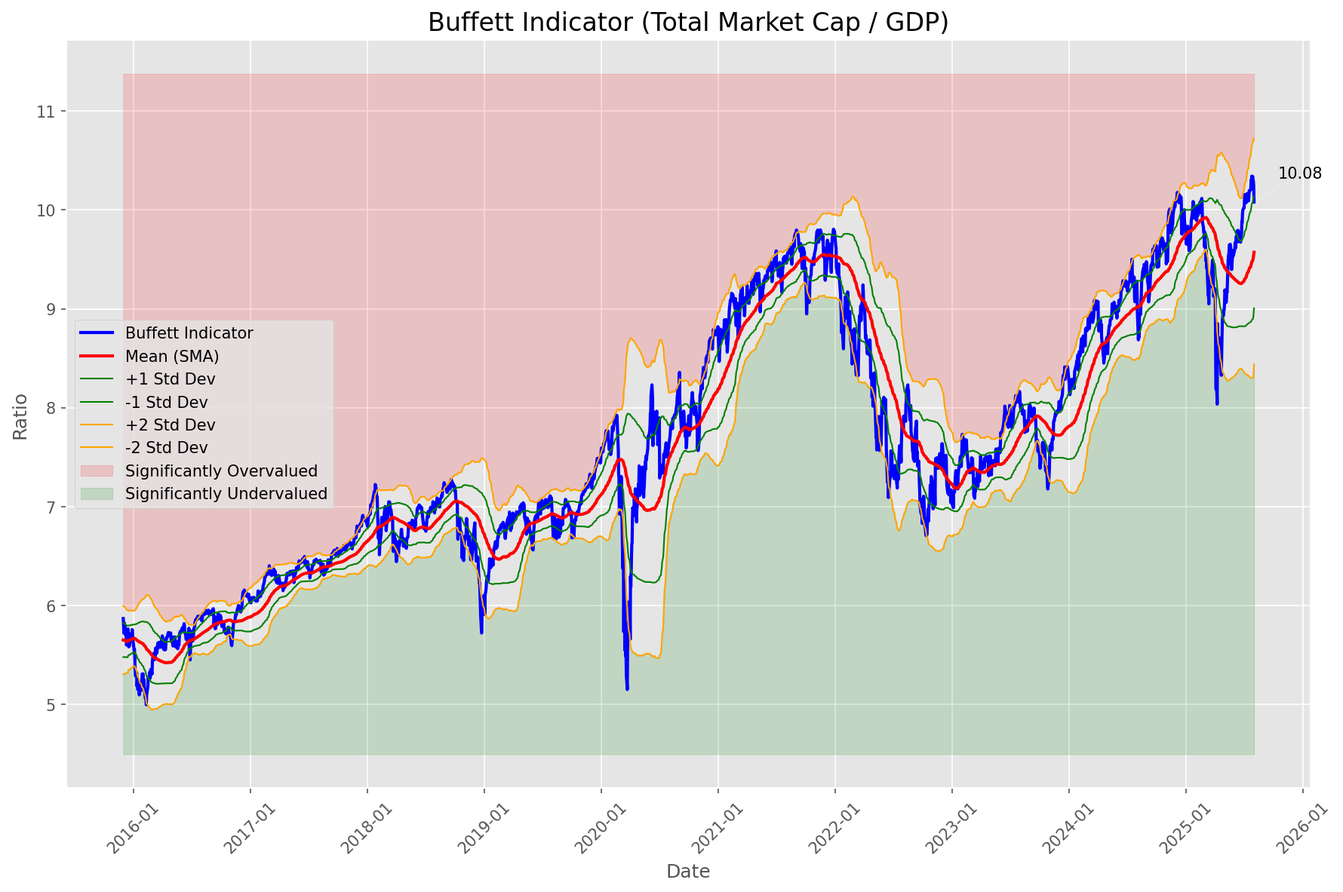
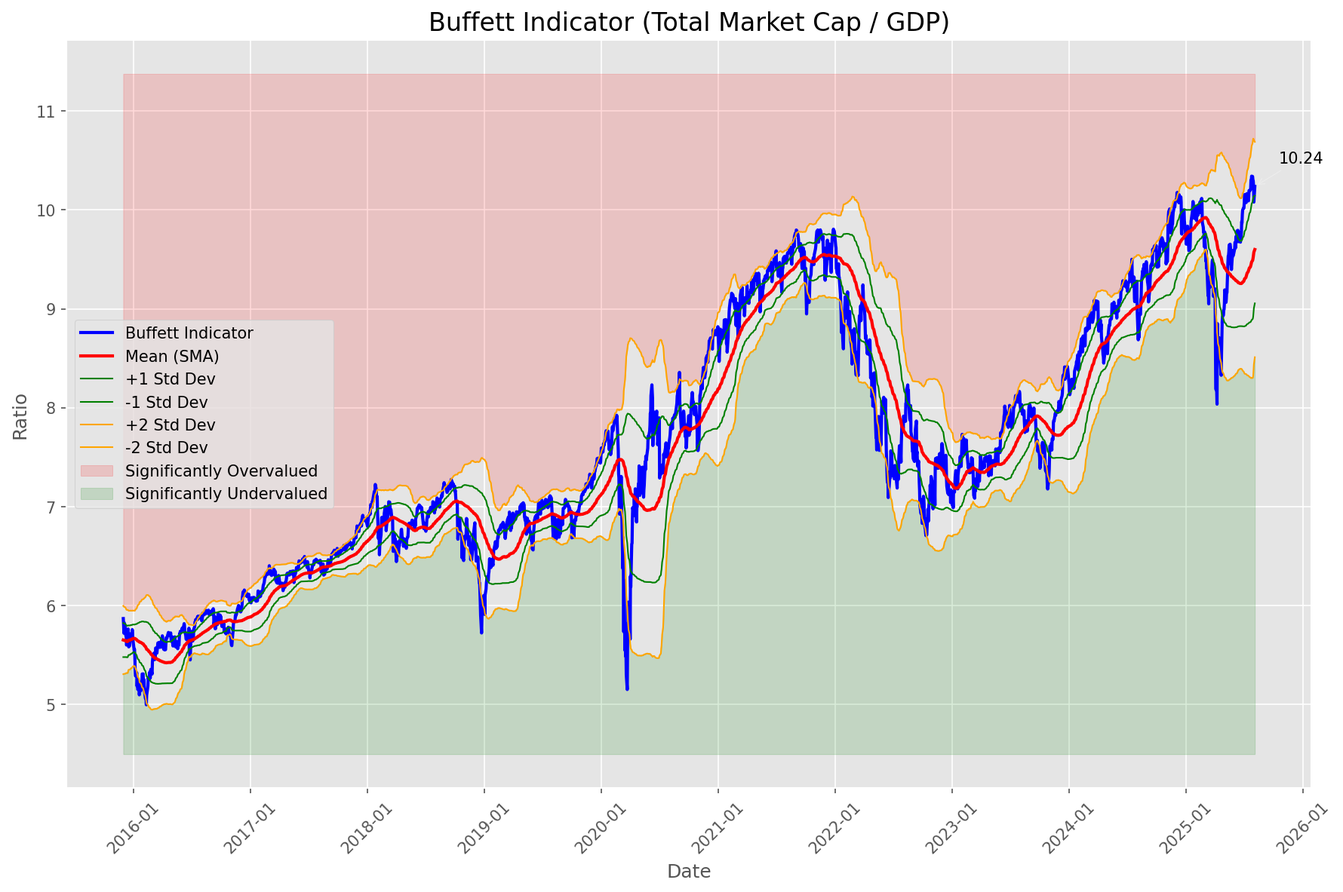
Add market report for 2025-08-05

diff --git a/oneil_relative_strength_report_2025-08-05.md b/oneil_relative_strength_report_2025-08-05.md
@@ -8,26 +8,26 @@
 
 | Metric | Value |
 |--------|-------|
-| **Market Valuation** | **Fair Valued** |
-| **Current Ratio** | 10.24 |
-| **Historical Mean** | 9.57 |
-| **Standard Deviation** | 0.57 |
-| **Z-Score (StdDev from Mean)** | 0.90 |
-| **Total Market Cap** | $310.53 trillion |
+| **Market Valuation** | **Overvalued** |
+| **Current Ratio** | 10.22 |
+| **Historical Mean** | 9.60 |
+| **Standard Deviation** | 0.54 |
+| **Z-Score (StdDev from Mean)** | 1.17 |
+| **Total Market Cap** | $310.07 trillion |
 | **GDP** | $30.33 trillion |
 
 ## **Market Insights**
 
-### **Market is Fairly Valued**
+### **Market is Overvalued**
 
-The market appears to be trading within a reasonable range of historical valuations. This suggests a balanced approach to equity investing is appropriate. Investors should:
+The market appears to be trading above historical average valuations. While not at extreme levels, this suggests more modest future returns may be expected. Investors should:
 
-- Focus on individual stock selection based on fundamentals and technicals
-- Maintain normal equity allocations aligned with long-term goals
-- Pay attention to sector rotation and relative strength
-- Watch for changes in market leadership
+- Focus on companies with reasonable valuations relative to their growth
+- Be more selective with new positions
+- Look for stocks showing relative strength within their sectors
+- Consider trimming positions in extremely overvalued names
 
-Fair valuation typically suggests normal market returns can be expected, with stock selection becoming increasingly important.
+Historically, periods of mild overvaluation can persist for extended periods, but returns tend to be below average.
 
 ### **Buffett Indicator Overview**
 
@@ -49,41 +49,41 @@ Based on William O'Neil's Relative Strength Methodology
 
 | ETF | Strength | RS Rating | Performance | Above Key MAs | Trend | Sector |
 |-----|----------|-----------|-------------|--------------|-------|--------|
-| [XLK](https://www.tradingview.com/chart/?symbol=XLK) | 91.5 | 83.0 | 21.09% | 10d ✓, 50d ✓, 200d ✓ | ↗ | Technology |
-| [URA](https://www.tradingview.com/chart/?symbol=URA) | 88.6 | 97.0 | 52.83% | 10d ✗, 50d ✓, 200d ✓ | ↗ | Uranium |
-| [ARKW](https://www.tradingview.com/chart/?symbol=ARKW) | 88.1 | 96.0 | 47.59% | 10d ✗, 50d ✓, 200d ✓ | ↗ | Next Generation Internet |
-| [ARKK](https://www.tradingview.com/chart/?symbol=ARKK) | 87.6 | 95.0 | 41.79% | 10d ✗, 50d ✓, 200d ✓ | ↗ | Innovation |
-| [ARKF](https://www.tradingview.com/chart/?symbol=ARKF) | 87.6 | 95.0 | 43.79% | 10d ✗, 50d ✓, 200d ✓ | ↗ | Fintech Innovation |
-| [BLOK](https://www.tradingview.com/chart/?symbol=BLOK) | 86.6 | 93.0 | 36.87% | 10d ✗, 50d ✓, 200d ✓ | ↗ | Blockchain & Cryptocurrency |
-| [XLC](https://www.tradingview.com/chart/?symbol=XLC) | 83.5 | 67.0 | 11.02% | 10d ✓, 50d ✓, 200d ✓ | ↗ | Communications |
-| [XLU](https://www.tradingview.com/chart/?symbol=XLU) | 82.0 | 64.0 | 9.49% | 10d ✓, 50d ✓, 200d ✓ | ↗ | Utilities |
-| [SLV](https://www.tradingview.com/chart/?symbol=SLV) | 78.6 | 77.0 | 16.69% | 10d ✗, 50d ✓, 200d ✓ | ↗ | Silver |
-| [AIQ](https://www.tradingview.com/chart/?symbol=AIQ) | 78.1 | 76.0 | 16.17% | 10d ✗, 50d ✓, 200d ✓ | ↗ | Artificial Intelligence & Technology |
-| [PAVE](https://www.tradingview.com/chart/?symbol=PAVE) | 76.6 | 73.0 | 14.47% | 10d ✗, 50d ✓, 200d ✓ | ↗ | Infrastructure |
-| [JETS](https://www.tradingview.com/chart/?symbol=JETS) | 75.6 | 71.0 | 13.03% | 10d ✗, 50d ✓, 200d ✓ | ↗ | Airlines |
-| [XLI](https://www.tradingview.com/chart/?symbol=XLI) | 75.1 | 70.0 | 12.29% | 10d ✗, 50d ✓, 200d ✓ | ↗ | Industrial |
-| [GLD](https://www.tradingview.com/chart/?symbol=GLD) | 74.0 | 48.0 | 4.34% | 10d ✓, 50d ✓, 200d ✓ | ↗ | Gold |
-| [IYZ](https://www.tradingview.com/chart/?symbol=IYZ) | 72.6 | 65.0 | 10.00% | 10d ✗, 50d ✓, 200d ✓ | ↗ | Telecommunications |
-| [XLY](https://www.tradingview.com/chart/?symbol=XLY) | 71.1 | 62.0 | 8.54% | 10d ✗, 50d ✓, 200d ✓ | ↗ | Consumer Discretionary |
-| [KWEB](https://www.tradingview.com/chart/?symbol=KWEB) | 65.1 | 50.0 | 4.94% | 10d ✗, 50d ✓, 200d ✓ | ↗ | Chinese Internet |
-| [SOXX](https://www.tradingview.com/chart/?symbol=SOXX) | 64.1 | 88.0 | 26.51% | 10d ✗, 50d ✓, 200d ✓ | ↘ | Semiconductors |
-| [XLF](https://www.tradingview.com/chart/?symbol=XLF) | 64.1 | 48.0 | 4.32% | 10d ✗, 50d ✓, 200d ✓ | ↗ | Financial |
-| [CIBR](https://www.tradingview.com/chart/?symbol=CIBR) | 59.7 | 59.0 | 7.65% | 10d ✗, 50d ✗, 200d ✓ | ↗ | Cybersecurity |
-| [IBB](https://www.tradingview.com/chart/?symbol=IBB) | 58.0 | 56.0 | 6.93% | 10d ✓, 50d ✓, 200d ✓ | ↘ | Biotechnology |
-| [ICLN](https://www.tradingview.com/chart/?symbol=ICLN) | 56.6 | 73.0 | 14.61% | 10d ✗, 50d ✓, 200d ✓ | ↘ | Clean Energy |
-| [ITB](https://www.tradingview.com/chart/?symbol=ITB) | 51.3 | 63.0 | 8.95% | 10d ✓, 50d ✓, 200d ✗ | ↘ | Home Construction |
-| [ARKG](https://www.tradingview.com/chart/?symbol=ARKG) | 48.1 | 56.0 | 6.57% | 10d ✗, 50d ✓, 200d ✓ | ↘ | Genomics |
-| [IYR](https://www.tradingview.com/chart/?symbol=IYR) | 37.6 | 35.0 | 0.79% | 10d ✗, 50d ✓, 200d ✓ | ↘ | Real Estate |
-| [DBC](https://www.tradingview.com/chart/?symbol=DBC) | 37.2 | 54.0 | 6.02% | 10d ✗, 50d ✗, 200d ✓ | ↘ | Commodities |
-| [TLT](https://www.tradingview.com/chart/?symbol=TLT) | 35.8 | 32.0 | 0.38% | 10d ✓, 50d ✓, 200d ✗ | ↘ | Long-term Treasuries |
-| [UUP](https://www.tradingview.com/chart/?symbol=UUP) | 35.3 | 31.0 | 0.11% | 10d ✓, 50d ✓, 200d ✗ | ↘ | U.S. Dollar |
+| [XLK](https://www.tradingview.com/chart/?symbol=XLK) | 91.5 | 83.0 | 21.65% | 10d ✓, 50d ✓, 200d ✓ | ↗ | Technology |
+| [URA](https://www.tradingview.com/chart/?symbol=URA) | 88.6 | 97.0 | 56.69% | 10d ✗, 50d ✓, 200d ✓ | ↗ | Uranium |
+| [ARKK](https://www.tradingview.com/chart/?symbol=ARKK) | 87.6 | 95.0 | 44.58% | 10d ✗, 50d ✓, 200d ✓ | ↗ | Innovation |
+| [ARKF](https://www.tradingview.com/chart/?symbol=ARKF) | 87.6 | 95.0 | 44.05% | 10d ✗, 50d ✓, 200d ✓ | ↗ | Fintech Innovation |
+| [ARKW](https://www.tradingview.com/chart/?symbol=ARKW) | 87.6 | 95.0 | 47.59% | 10d ✗, 50d ✓, 200d ✓ | ↗ | Next Generation Internet |
+| [BLOK](https://www.tradingview.com/chart/?symbol=BLOK) | 86.6 | 93.0 | 37.30% | 10d ✗, 50d ✓, 200d ✓ | ↗ | Blockchain & Cryptocurrency |
+| [XLC](https://www.tradingview.com/chart/?symbol=XLC) | 83.0 | 66.0 | 10.86% | 10d ✓, 50d ✓, 200d ✓ | ↗ | Communications |
+| [XLU](https://www.tradingview.com/chart/?symbol=XLU) | 81.5 | 63.0 | 9.40% | 10d ✓, 50d ✓, 200d ✓ | ↗ | Utilities |
+| [AIQ](https://www.tradingview.com/chart/?symbol=AIQ) | 78.1 | 76.0 | 16.67% | 10d ✗, 50d ✓, 200d ✓ | ↗ | Artificial Intelligence & Technology |
+| [SLV](https://www.tradingview.com/chart/?symbol=SLV) | 77.6 | 75.0 | 15.91% | 10d ✗, 50d ✓, 200d ✓ | ↗ | Silver |
+| [PAVE](https://www.tradingview.com/chart/?symbol=PAVE) | 76.6 | 73.0 | 14.77% | 10d ✗, 50d ✓, 200d ✓ | ↗ | Infrastructure |
+| [XLI](https://www.tradingview.com/chart/?symbol=XLI) | 74.6 | 69.0 | 12.02% | 10d ✗, 50d ✓, 200d ✓ | ↗ | Industrial |
+| [XLY](https://www.tradingview.com/chart/?symbol=XLY) | 72.1 | 64.0 | 9.97% | 10d ✗, 50d ✓, 200d ✓ | ↗ | Consumer Discretionary |
+| [IYZ](https://www.tradingview.com/chart/?symbol=IYZ) | 72.1 | 64.0 | 10.00% | 10d ✗, 50d ✓, 200d ✓ | ↗ | Telecommunications |
+| [GLD](https://www.tradingview.com/chart/?symbol=GLD) | 68.0 | 36.0 | 1.25% | 10d ✓, 50d ✓, 200d ✓ | ↗ | Gold |
+| [KWEB](https://www.tradingview.com/chart/?symbol=KWEB) | 66.6 | 53.0 | 5.88% | 10d ✗, 50d ✓, 200d ✓ | ↗ | Chinese Internet |
+| [SOXX](https://www.tradingview.com/chart/?symbol=SOXX) | 64.1 | 88.0 | 27.39% | 10d ✗, 50d ✓, 200d ✓ | ↘ | Semiconductors |
+| [CIBR](https://www.tradingview.com/chart/?symbol=CIBR) | 58.2 | 56.0 | 7.12% | 10d ✗, 50d ✗, 200d ✓ | ↗ | Cybersecurity |
+| [ICLN](https://www.tradingview.com/chart/?symbol=ICLN) | 57.6 | 75.0 | 15.52% | 10d ✗, 50d ✓, 200d ✓ | ↘ | Clean Energy |
+| [XLF](https://www.tradingview.com/chart/?symbol=XLF) | 54.2 | 48.0 | 4.43% | 10d ✗, 50d ✗, 200d ✓ | ↗ | Financial |
+| [JETS](https://www.tradingview.com/chart/?symbol=JETS) | 53.0 | 66.0 | 10.79% | 10d ✗, 50d ✗, 200d ✗ | ↗ | Airlines |
+| [ITB](https://www.tradingview.com/chart/?symbol=ITB) | 52.3 | 65.0 | 10.13% | 10d ✓, 50d ✓, 200d ✗ | ↘ | Home Construction |
+| [IBB](https://www.tradingview.com/chart/?symbol=IBB) | 46.6 | 53.0 | 6.05% | 10d ✗, 50d ✓, 200d ✓ | ↘ | Biotechnology |
+| [TLT](https://www.tradingview.com/chart/?symbol=TLT) | 36.8 | 34.0 | 0.85% | 10d ✓, 50d ✓, 200d ✗ | ↘ | Long-term Treasuries |
+| [DBC](https://www.tradingview.com/chart/?symbol=DBC) | 36.7 | 53.0 | 6.02% | 10d ✗, 50d ✗, 200d ✓ | ↘ | Commodities |
+| [UUP](https://www.tradingview.com/chart/?symbol=UUP) | 35.8 | 32.0 | 0.45% | 10d ✓, 50d ✓, 200d ✗ | ↘ | U.S. Dollar |
+| [ARKG](https://www.tradingview.com/chart/?symbol=ARKG) | 31.0 | 62.0 | 9.08% | 10d ✗, 50d ✗, 200d ✗ | ↘ | Genomics |
 | [DBA](https://www.tradingview.com/chart/?symbol=DBA) | 30.5 | 21.0 | -4.03% | 10d ✗, 50d ✗, 200d ✗ | ↗ | Agriculture |
-| [IYT](https://www.tradingview.com/chart/?symbol=IYT) | 29.5 | 59.0 | 7.63% | 10d ✗, 50d ✗, 200d ✗ | ↘ | Transportation |
-| [XLE](https://www.tradingview.com/chart/?symbol=XLE) | 24.0 | 48.0 | 4.17% | 10d ✗, 50d ✗, 200d ✗ | ↘ | Energy |
-| [XLB](https://www.tradingview.com/chart/?symbol=XLB) | 23.0 | 46.0 | 3.46% | 10d ✗, 50d ✗, 200d ✗ | ↘ | Materials |
-| [BIL](https://www.tradingview.com/chart/?symbol=BIL) | 15.0 | 30.0 | 0.02% | 10d ✗, 50d ✗, 200d ✗ | ↘ | Short-term Treasuries |
-| [XLP](https://www.tradingview.com/chart/?symbol=XLP) | 13.5 | 27.0 | -1.24% | 10d ✗, 50d ✗, 200d ✗ | ↘ | Consumer Staples |
-| [XLV](https://www.tradingview.com/chart/?symbol=XLV) | 10.5 | 21.0 | -3.98% | 10d ✗, 50d ✗, 200d ✗ | ↘ | Healthcare |
+| [IYT](https://www.tradingview.com/chart/?symbol=IYT) | 29.0 | 58.0 | 7.63% | 10d ✗, 50d ✗, 200d ✗ | ↘ | Transportation |
+| [IYR](https://www.tradingview.com/chart/?symbol=IYR) | 26.9 | 34.0 | 0.77% | 10d ✗, 50d ✓, 200d ✗ | ↘ | Real Estate |
+| [XLE](https://www.tradingview.com/chart/?symbol=XLE) | 25.0 | 50.0 | 5.06% | 10d ✗, 50d ✗, 200d ✗ | ↘ | Energy |
+| [XLB](https://www.tradingview.com/chart/?symbol=XLB) | 23.5 | 47.0 | 4.26% | 10d ✗, 50d ✗, 200d ✗ | ↘ | Materials |
+| [BIL](https://www.tradingview.com/chart/?symbol=BIL) | 15.0 | 30.0 | 0.03% | 10d ✗, 50d ✗, 200d ✗ | ↘ | Short-term Treasuries |
+| [XLP](https://www.tradingview.com/chart/?symbol=XLP) | 13.0 | 26.0 | -1.37% | 10d ✗, 50d ✗, 200d ✗ | ↘ | Consumer Staples |
+| [XLV](https://www.tradingview.com/chart/?symbol=XLV) | 10.0 | 20.0 | -4.37% | 10d ✗, 50d ✗, 200d ✗ | ↘ | Healthcare |
 
 ### **Sector ETF Performance Interpretation**
 
@@ -98,135 +98,143 @@ This table shows the relative strength metrics for different market sectors base
 
 ### **Current Sector Leadership**
 
-The current market leadership is coming from the following sectors: **Technology, Uranium, Next Generation Internet**.
+The current market leadership is coming from the following sectors: **Technology, Uranium, Innovation**.
 
-The **Technology** sector (represented by **XLK**) is showing particularly strong relative strength with an RS rating of 83.0 and performance of 21.09% vs. the S&P 500. This sector is trading above its 10-day, 50-day, 200-day moving average(s). Investors should consider focusing on high RS stocks within these leading sectors for potential outperformance.
+The **Technology** sector (represented by **XLK**) is showing particularly strong relative strength with an RS rating of 83.0 and performance of 21.65% vs. the S&P 500. This sector is trading above its 10-day, 50-day, 200-day moving average(s). Investors should consider focusing on high RS stocks within these leading sectors for potential outperformance.
 
 ---
 
 ## **Buy Recommendations**
 
-The following 64 stocks show exceptional relative strength:
+The following 61 stocks show exceptional relative strength:
 
 | RS Rating | Buy Score | Current Price | Chart | Name | Ticker |
 |-----------|-----------|---------------|-------|------|--------|
-| 100 | 100 | $156.99 | [Chart](https://www.tradingview.com/chart/?symbol=SEZL) | Sezzle Inc. Common Stock | SEZL |
-| 100 | 100 | $201.45 | [Chart](https://www.tradingview.com/chart/?symbol=CLS) | Celestica, Inc. | CLS |
-| 100 | 100 | $106.37 | [Chart](https://www.tradingview.com/chart/?symbol=HOOD) | Robinhood Markets, Inc. Class A Common Stock | HOOD |
-| 100 | 100 | $65.42 | [Chart](https://www.tradingview.com/chart/?symbol=MP) | MP Materials Corp. | MP |
+| 100 | 100 | $201.16 | [Chart](https://www.tradingview.com/chart/?symbol=CLS) | Celestica, Inc. | CLS |
+| 100 | 100 | $106.93 | [Chart](https://www.tradingview.com/chart/?symbol=HOOD) | Robinhood Markets, Inc. Class A Common Stock | HOOD |
 | 100 | 100 | $245.51 | [Chart](https://www.tradingview.com/chart/?symbol=DAVE) | Dave Inc. Class A Common Stock | DAVE |
-| 99 | 100 | $25.07 | [Chart](https://www.tradingview.com/chart/?symbol=EYE) | National Vision Holdings, Inc. Common Stock | EYE |
-| 99 | 100 | $390.68 | [Chart](https://www.tradingview.com/chart/?symbol=TLN) | Talen Energy Corporation Common Stock | TLN |
+| 100 | 100 | $157.49 | [Chart](https://www.tradingview.com/chart/?symbol=SEZL) | Sezzle Inc. Common Stock | SEZL |
+| 100 | 100 | $114.25 | [Chart](https://www.tradingview.com/chart/?symbol=CRDO) | Credo Technology Group Holding Ltd Ordinary Shares | CRDO |
+| 100 | 100 | $67.83 | [Chart](https://www.tradingview.com/chart/?symbol=MP) | MP Materials Corp. | MP |
+| 99 | 100 | $388.14 | [Chart](https://www.tradingview.com/chart/?symbol=TLN) | Talen Energy Corporation Common Stock | TLN |
+| 99 | 100 | $130.16 | [Chart](https://www.tradingview.com/chart/?symbol=RBLX) | Roblox Corporation | RBLX |
+| 99 | 100 | $24.91 | [Chart](https://www.tradingview.com/chart/?symbol=EYE) | National Vision Holdings, Inc. Common Stock | EYE |
 | 99 | 100 | $76.98 | [Chart](https://www.tradingview.com/chart/?symbol=LIF) | Life360, Inc. Common Stock | LIF |
-| 99 | 100 | $130.70 | [Chart](https://www.tradingview.com/chart/?symbol=RBLX) | Roblox Corporation | RBLX |
-| 98 | 100 | $208.80 | [Chart](https://www.tradingview.com/chart/?symbol=NET) | Cloudflare, Inc. Class A common stock, par value $0.001 per share | NET |
-| 98 | 100 | $59.50 | [Chart](https://www.tradingview.com/chart/?symbol=KTOS) | Kratos Defense & Security Solutions, Inc. | KTOS |
-| 98 | 100 | $662.77 | [Chart](https://www.tradingview.com/chart/?symbol=GEV) | GE Vernova Inc. | GEV |
-| 97 | 100 | $111.89 | [Chart](https://www.tradingview.com/chart/?symbol=TPR) | Tapestry, Inc. Common Stock | TPR |
-| 97 | 100 | $30.74 | [Chart](https://www.tradingview.com/chart/?symbol=ACMR) | ACM Research, Inc. Class A Common Stock | ACMR |
-| 97 | 100 | $63.35 | [Chart](https://www.tradingview.com/chart/?symbol=HIMS) | Hims & Hers Health, Inc. | HIMS |
-| 96 | 100 | $173.91 | [Chart](https://www.tradingview.com/chart/?symbol=NRG) | NRG Energy, Inc. | NRG |
-| 96 | 100 | $179.14 | [Chart](https://www.tradingview.com/chart/?symbol=COOP) | Mr. Cooper Group Inc. Common Stock | COOP |
-| 96 | 100 | $38.71 | [Chart](https://www.tradingview.com/chart/?symbol=AS) | Amer Sports, Inc. | AS |
+| 98 | 100 | $60.84 | [Chart](https://www.tradingview.com/chart/?symbol=KTOS) | Kratos Defense & Security Solutions, Inc. | KTOS |
+| 98 | 100 | $212.30 | [Chart](https://www.tradingview.com/chart/?symbol=NET) | Cloudflare, Inc. Class A common stock, par value $0.001 per share | NET |
+| 98 | 100 | $658.47 | [Chart](https://www.tradingview.com/chart/?symbol=GEV) | GE Vernova Inc. | GEV |
+| 98 | 100 | $37.84 | [Chart](https://www.tradingview.com/chart/?symbol=NNE) | Nano Nuclear Energy Inc. Common Stock | NNE |
+| 97 | 100 | $63.84 | [Chart](https://www.tradingview.com/chart/?symbol=HIMS) | Hims & Hers Health, Inc. | HIMS |
+| 97 | 100 | $157.25 | [Chart](https://www.tradingview.com/chart/?symbol=FUTU) | Futu Holdings Limited American Depositary Shares | FUTU |
+| 97 | 100 | $182.70 | [Chart](https://www.tradingview.com/chart/?symbol=COOP) | Mr. Cooper Group Inc. Common Stock | COOP |
+| 96 | 100 | $172.54 | [Chart](https://www.tradingview.com/chart/?symbol=NRG) | NRG Energy, Inc. | NRG |
+| 96 | 100 | $110.87 | [Chart](https://www.tradingview.com/chart/?symbol=TPR) | Tapestry, Inc. Common Stock | TPR |
 | 96 | 100 | $35.87 | [Chart](https://www.tradingview.com/chart/?symbol=ATRO) | Astronics Corp | ATRO |
 | 95 | 100 | $116.69 | [Chart](https://www.tradingview.com/chart/?symbol=SANM) | Sanmina  Corp | SANM |
 | 95 | 100 | $105.47 | [Chart](https://www.tradingview.com/chart/?symbol=VRNA) | Verona Pharma plc | VRNA |
-| 95 | 100 | $64.90 | [Chart](https://www.tradingview.com/chart/?symbol=IBKR) | Interactive Brokers Group, Inc. Class A Common Stock | IBKR |
-| 94 | 100 | $90.24 | [Chart](https://www.tradingview.com/chart/?symbol=RYTM) | Rhythm Pharmaceuticals, Inc. Common Stock | RYTM |
 | 94 | 100 | $49.55 | [Chart](https://www.tradingview.com/chart/?symbol=REVG) | REV Group, Inc. | REVG |
-| 94 | 100 | $360.66 | [Chart](https://www.tradingview.com/chart/?symbol=CVNA) | Carvana Co. | CVNA |
-| 94 | 100 | $58.86 | [Chart](https://www.tradingview.com/chart/?symbol=VIK) | Viking Holdings Ltd | VIK |
-| 93 | 100 | $49.30 | [Chart](https://www.tradingview.com/chart/?symbol=TOST) | Toast, Inc. | TOST |
-| 92 | 100 | $259.87 | [Chart](https://www.tradingview.com/chart/?symbol=WWD) | Woodward, Inc. | WWD |
+| 94 | 100 | $21.14 | [Chart](https://www.tradingview.com/chart/?symbol=MAG) | MAG Silver Corp. | MAG |
+| 94 | 100 | $872.85 | [Chart](https://www.tradingview.com/chart/?symbol=AXON) | Axon Enterprise, Inc. Common Stock | AXON |
+| 94 | 100 | $174.17 | [Chart](https://www.tradingview.com/chart/?symbol=PLTR) | Palantir Technologies Inc. Class A Common Stock | PLTR |
+| 94 | 100 | $366.53 | [Chart](https://www.tradingview.com/chart/?symbol=CVNA) | Carvana Co. | CVNA |
 | 92 | 100 | $156.85 | [Chart](https://www.tradingview.com/chart/?symbol=VSEC) | VSE Corp | VSEC |
-| 92 | 100 | $108.63 | [Chart](https://www.tradingview.com/chart/?symbol=APH) | Amphenol Corporation | APH |
+| 92 | 100 | $108.99 | [Chart](https://www.tradingview.com/chart/?symbol=APH) | Amphenol Corporation | APH |
+| 92 | 100 | $259.87 | [Chart](https://www.tradingview.com/chart/?symbol=WWD) | Woodward, Inc. | WWD |
 | 92 | 100 | $42.98 | [Chart](https://www.tradingview.com/chart/?symbol=LTM) | LATAM Airlines Group S.A. American Depositary Shares (each representing two thousand (2,000) shares of Common Stock) | LTM |
-| 92 | 100 | $92.86 | [Chart](https://www.tradingview.com/chart/?symbol=EBAY) | eBay Inc | EBAY |
-| 92 | 100 | $276.23 | [Chart](https://www.tradingview.com/chart/?symbol=GE) | GE Aerospace | GE |
-| 91 | 100 | $53.17 | [Chart](https://www.tradingview.com/chart/?symbol=AU) | AngloGold Ashanti plc | AU |
-| 90 | 100 | $160.66 | [Chart](https://www.tradingview.com/chart/?symbol=PLTR) | Palantir Technologies Inc. Class A Common Stock | PLTR |
-| 89 | 100 | $55.55 | [Chart](https://www.tradingview.com/chart/?symbol=BTI) | British American Tobacco p.l.c. American Depositary Shares, American Depositary Shares, each representing one Ordinary Share | BTI |
+| 91 | 100 | $397.50 | [Chart](https://www.tradingview.com/chart/?symbol=APP) | Applovin Corporation Class A Common Stock | APP |
+| 90 | 100 | $54.88 | [Chart](https://www.tradingview.com/chart/?symbol=AU) | AngloGold Ashanti plc | AU |
+| 90 | 100 | $273.94 | [Chart](https://www.tradingview.com/chart/?symbol=GE) | GE Aerospace | GE |
+| 90 | 100 | $91.88 | [Chart](https://www.tradingview.com/chart/?symbol=EBAY) | eBay Inc | EBAY |
 | 89 | 100 | $81.79 | [Chart](https://www.tradingview.com/chart/?symbol=TPB) | Turning Point Brands, Inc. | TPB |
-| 87 | 100 | $92.52 | [Chart](https://www.tradingview.com/chart/?symbol=RBRK) | Rubrik, Inc. | RBRK |
-| 87 | 100 | $33.68 | [Chart](https://www.tradingview.com/chart/?symbol=DB) | Deutsche Bank Aktiengesellschaft | DB |
+| 88 | 100 | $55.78 | [Chart](https://www.tradingview.com/chart/?symbol=BTI) | British American Tobacco p.l.c. American Depositary Shares, American Depositary Shares, each representing one Ordinary Share | BTI |
+| 88 | 100 | $43.84 | [Chart](https://www.tradingview.com/chart/?symbol=FROG) | JFrog Ltd. Ordinary Shares | FROG |
 | 87 | 100 | $164.98 | [Chart](https://www.tradingview.com/chart/?symbol=IRTC) | iRhythm Technologies, Inc | IRTC |
-| 86 | 100 | $29.53 | [Chart](https://www.tradingview.com/chart/?symbol=SRAD) | Sportradar Group AG Class A Ordinary Shares | SRAD |
-| 89 | 99 | $395.01 | [Chart](https://www.tradingview.com/chart/?symbol=APP) | Applovin Corporation Class A Common Stock | APP |
-| 87 | 99 | $28.88 | [Chart](https://www.tradingview.com/chart/?symbol=OR) | OR Royalties Inc. | OR |
-| 88 | 98 | $49.33 | [Chart](https://www.tradingview.com/chart/?symbol=SIL) | Global X Silver Miners ETF (NEW) | SIL |
-| 88 | 98 | $189.58 | [Chart](https://www.tradingview.com/chart/?symbol=AWI) | Armstrong World Industries, Inc. | AWI |
-| 87 | 98 | $35.59 | [Chart](https://www.tradingview.com/chart/?symbol=APG) | APi Group Corporation | APG |
-| 86 | 98 | $43.40 | [Chart](https://www.tradingview.com/chart/?symbol=FROG) | JFrog Ltd. Ordinary Shares | FROG |
-| 85 | 98 | $57.81 | [Chart](https://www.tradingview.com/chart/?symbol=ERJ) | Embraer S.A. | ERJ |
+| 88 | 99 | $39.25 | [Chart](https://www.tradingview.com/chart/?symbol=ZLAB) | Zai Lab Limited American Depositary Shares | ZLAB |
+| 86 | 99 | $58.17 | [Chart](https://www.tradingview.com/chart/?symbol=ERJ) | Embraer S.A. | ERJ |
+| 86 | 99 | $33.77 | [Chart](https://www.tradingview.com/chart/?symbol=DB) | Deutsche Bank Aktiengesellschaft | DB |
+| 88 | 98 | $51.92 | [Chart](https://www.tradingview.com/chart/?symbol=PTCT) | PTC Therapeutics, Inc. | PTCT |
+| 86 | 98 | $47.57 | [Chart](https://www.tradingview.com/chart/?symbol=BBIO) | BridgeBio Pharma, Inc. Common Stock | BBIO |
+| 85 | 98 | $92.72 | [Chart](https://www.tradingview.com/chart/?symbol=RBRK) | Rubrik, Inc. | RBRK |
 | 87 | 97 | $261.65 | [Chart](https://www.tradingview.com/chart/?symbol=WTS) | Watts Water Technologies, Inc. Class A | WTS |
-| 85 | 97 | $101.41 | [Chart](https://www.tradingview.com/chart/?symbol=BK) | Bank of New York Mellon Corporation | BK |
-| 85 | 97 | $47.75 | [Chart](https://www.tradingview.com/chart/?symbol=BBIO) | BridgeBio Pharma, Inc. Common Stock | BBIO |
-| 84 | 97 | $39.74 | [Chart](https://www.tradingview.com/chart/?symbol=AHR) | American Healthcare REIT, Inc. | AHR |
+| 87 | 97 | $50.13 | [Chart](https://www.tradingview.com/chart/?symbol=SIL) | Global X Silver Miners ETF (NEW) | SIL |
+| 87 | 97 | $189.58 | [Chart](https://www.tradingview.com/chart/?symbol=AWI) | Armstrong World Industries, Inc. | AWI |
 | 85 | 96 | $146.94 | [Chart](https://www.tradingview.com/chart/?symbol=PPA) | Invesco Aerospace & Defense ETF | PPA |
-| 85 | 95 | $19.48 | [Chart](https://www.tradingview.com/chart/?symbol=LQDA) | Liquidia Corporation Common Stock | LQDA |
-| 85 | 95 | $96.91 | [Chart](https://www.tradingview.com/chart/?symbol=NDAQ) | Nasdaq, Inc. Common Stock | NDAQ |
-| 84 | 95 | $197.91 | [Chart](https://www.tradingview.com/chart/?symbol=ITA) | iShares U.S. Aerospace & Defense ETF | ITA |
+| 85 | 96 | $199.16 | [Chart](https://www.tradingview.com/chart/?symbol=ITA) | iShares U.S. Aerospace & Defense ETF | ITA |
+| 84 | 96 | $29.01 | [Chart](https://www.tradingview.com/chart/?symbol=OR) | OR Royalties Inc. | OR |
+| 84 | 96 | $101.31 | [Chart](https://www.tradingview.com/chart/?symbol=BK) | Bank of New York Mellon Corporation | BK |
+| 83 | 96 | $39.51 | [Chart](https://www.tradingview.com/chart/?symbol=AHR) | American Healthcare REIT, Inc. | AHR |
+| 84 | 94 | $35.16 | [Chart](https://www.tradingview.com/chart/?symbol=APG) | APi Group Corporation | APG |
 | 84 | 94 | $51.04 | [Chart](https://www.tradingview.com/chart/?symbol=FHI) | Federated Hermes, Inc. | FHI |
-| 83 | 94 | $38.05 | [Chart](https://www.tradingview.com/chart/?symbol=ZLAB) | Zai Lab Limited American Depositary Shares | ZLAB |
-| 83 | 94 | $73.04 | [Chart](https://www.tradingview.com/chart/?symbol=ULS) | UL Solutions Inc. | ULS |
-| 83 | 93 | $113.40 | [Chart](https://www.tradingview.com/chart/?symbol=SXT) | Sensient Technology Corporation | SXT |
+| 84 | 94 | $96.13 | [Chart](https://www.tradingview.com/chart/?symbol=NDAQ) | Nasdaq, Inc. Common Stock | NDAQ |
+| 83 | 93 | $19.59 | [Chart](https://www.tradingview.com/chart/?symbol=LQDA) | Liquidia Corporation Common Stock | LQDA |
 | 82 | 93 | $62.68 | [Chart](https://www.tradingview.com/chart/?symbol=WOR) | Worthington Enterprises, Inc. | WOR |
-| 82 | 93 | $242.45 | [Chart](https://www.tradingview.com/chart/?symbol=BAP) | Credicorp LTD | BAP |
-| 81 | 93 | $321.00 | [Chart](https://www.tradingview.com/chart/?symbol=FFIV) | F5, Inc. Common Stock | FFIV |
-| 80 | 92 | $95.87 | [Chart](https://www.tradingview.com/chart/?symbol=WPM) | Wheaton Precious Metals Corp. Common Stock | WPM |
+| 82 | 92 | $113.40 | [Chart](https://www.tradingview.com/chart/?symbol=SXT) | Sensient Technology Corporation | SXT |
+| 81 | 92 | $242.45 | [Chart](https://www.tradingview.com/chart/?symbol=BAP) | Credicorp LTD | BAP |
+| 80 | 92 | $321.00 | [Chart](https://www.tradingview.com/chart/?symbol=FFIV) | F5, Inc. Common Stock | FFIV |
 
 ---
 
 
 ## **Sell Recommendations**
 
-The following 43 stocks show deteriorating relative strength:
+The following 54 stocks show deteriorating relative strength:
 
 | RS Rating | Sell Score | Current Price | Chart | Name | Ticker |
 |-----------|------------|---------------|-------|------|--------|
-| 1 | 100 | $13.64 | [Chart](https://www.tradingview.com/chart/?symbol=CLBT) | Cellebrite DI Ltd. Class A Ordinary Shares | CLBT |
-| 1 | 100 | $16.89 | [Chart](https://www.tradingview.com/chart/?symbol=DJT) | Trump Media & Technology Group Corp. Common Stock | DJT |
-| 1 | 100 | $71.46 | [Chart](https://www.tradingview.com/chart/?symbol=LNTH) | Lantheus Holdings, Inc | LNTH |
+| 1 | 100 | $11.88 | [Chart](https://www.tradingview.com/chart/?symbol=NVDS) | Investment Managers Series Trust II Tradr 1.5X Short NVDA Daily ETF | NVDS |
+| 1 | 100 | $72.62 | [Chart](https://www.tradingview.com/chart/?symbol=LNTH) | Lantheus Holdings, Inc | LNTH |
+| 1 | 100 | $16.52 | [Chart](https://www.tradingview.com/chart/?symbol=GPCR) | Structure Therapeutics Inc. American Depositary Shares | GPCR |
+| 2 | 100 | $13.74 | [Chart](https://www.tradingview.com/chart/?symbol=CLBT) | Cellebrite DI Ltd. Class A Ordinary Shares | CLBT |
+| 2 | 100 | $16.75 | [Chart](https://www.tradingview.com/chart/?symbol=DJT) | Trump Media & Technology Group Corp. Common Stock | DJT |
 | 3 | 100 | $23.99 | [Chart](https://www.tradingview.com/chart/?symbol=ZSL) | ProShares UltraShort Silver | ZSL |
+| 5 | 100 | $41.82 | [Chart](https://www.tradingview.com/chart/?symbol=SDOW) | ProShares UltraPro Short Dow 30 | SDOW |
+| 6 | 100 | $12.60 | [Chart](https://www.tradingview.com/chart/?symbol=CDNA) | CareDx, Inc. | CDNA |
 | 7 | 100 | $10.37 | [Chart](https://www.tradingview.com/chart/?symbol=OEC) | Orion S.A. | OEC |
-| 7 | 100 | $12.60 | [Chart](https://www.tradingview.com/chart/?symbol=CDNA) | CareDx, Inc. | CDNA |
 | 8 | 100 | $20.95 | [Chart](https://www.tradingview.com/chart/?symbol=AMRK) | A-Mark Precious Metals, Inc. | AMRK |
+| 8 | 100 | $57.99 | [Chart](https://www.tradingview.com/chart/?symbol=ATKR) | Atkore Inc. | ATKR |
+| 9 | 100 | $54.98 | [Chart](https://www.tradingview.com/chart/?symbol=HRB) | H&R Block, Inc. | HRB |
 | 9 | 100 | $35.95 | [Chart](https://www.tradingview.com/chart/?symbol=LZB) | La-Z-Boy Incorporated | LZB |
-| 10 | 100 | $54.98 | [Chart](https://www.tradingview.com/chart/?symbol=HRB) | H&R Block, Inc. | HRB |
 | 14 | 100 | $53.45 | [Chart](https://www.tradingview.com/chart/?symbol=AMWD) | American Woodmark Corp | AMWD |
-| 5 | 99 | $41.48 | [Chart](https://www.tradingview.com/chart/?symbol=SDOW) | ProShares UltraPro Short Dow 30 | SDOW |
+| 6 | 99 | $19.21 | [Chart](https://www.tradingview.com/chart/?symbol=GAP) | The Gap, Inc. | GAP |
+| 6 | 98 | $25.49 | [Chart](https://www.tradingview.com/chart/?symbol=TBBB) | BBB Foods Inc. | TBBB |
 | 6 | 97 | $20.89 | [Chart](https://www.tradingview.com/chart/?symbol=BLFS) | BioLife Solutions Inc. | BLFS |
-| 7 | 97 | $25.49 | [Chart](https://www.tradingview.com/chart/?symbol=TBBB) | BBB Foods Inc. | TBBB |
 | 10 | 97 | $22.54 | [Chart](https://www.tradingview.com/chart/?symbol=ERY) | Direxion Daily Energy Bear 2X Shares | ERY |
+| 12 | 97 | $49.24 | [Chart](https://www.tradingview.com/chart/?symbol=PRCT) | PROCEPT BioRobotics Corporation Common Stock | PRCT |
 | 13 | 97 | $15.15 | [Chart](https://www.tradingview.com/chart/?symbol=FIHL) | Fidelis Insurance Holdings Limited | FIHL |
-| 7 | 96 | $19.52 | [Chart](https://www.tradingview.com/chart/?symbol=GAP) | The Gap, Inc. | GAP |
+| 8 | 96 | $12.60 | [Chart](https://www.tradingview.com/chart/?symbol=BSM) | Black Stone Minerals, L.P. | BSM |
 | 11 | 96 | $18.78 | [Chart](https://www.tradingview.com/chart/?symbol=AVBP) | ArriVent BioPharma, Inc. Common Stock | AVBP |
-| 9 | 95 | $12.60 | [Chart](https://www.tradingview.com/chart/?symbol=BSM) | Black Stone Minerals, L.P. | BSM |
-| 11 | 95 | $49.60 | [Chart](https://www.tradingview.com/chart/?symbol=PRCT) | PROCEPT BioRobotics Corporation Common Stock | PRCT |
+| 11 | 95 | $39.17 | [Chart](https://www.tradingview.com/chart/?symbol=SH) | ProShares Short S&P500 | SH |
 | 10 | 94 | $15.07 | [Chart](https://www.tradingview.com/chart/?symbol=PLSE) | Pulse Biosciences, Inc Common Stock (DE) | PLSE |
 | 14 | 94 | $16.66 | [Chart](https://www.tradingview.com/chart/?symbol=CTO) | CTO Realty Growth, Inc. | CTO |
-| 15 | 92 | $21.89 | [Chart](https://www.tradingview.com/chart/?symbol=CURB) | Curbline Properties Corp. | CURB |
-| 12 | 91 | $39.11 | [Chart](https://www.tradingview.com/chart/?symbol=SH) | ProShares Short S&P500 | SH |
+| 9 | 93 | $24.42 | [Chart](https://www.tradingview.com/chart/?symbol=DXD) | ProShares UltraShort Dow 30 | DXD |
+| 22 | 92 | $16.83 | [Chart](https://www.tradingview.com/chart/?symbol=SVOL) | Simplify Volatility Premium ETF | SVOL |
 | 16 | 91 | $13.24 | [Chart](https://www.tradingview.com/chart/?symbol=GOOD) | Gladstone Commercial Corporation - REIT | GOOD |
-| 23 | 91 | $16.83 | [Chart](https://www.tradingview.com/chart/?symbol=SVOL) | Simplify Volatility Premium ETF | SVOL |
-| 20 | 90 | $37.28 | [Chart](https://www.tradingview.com/chart/?symbol=PBA) | PEMBINA PIPELINE CORPORATION | PBA |
+| 16 | 91 | $21.89 | [Chart](https://www.tradingview.com/chart/?symbol=CURB) | Curbline Properties Corp. | CURB |
 | 14 | 89 | $10.27 | [Chart](https://www.tradingview.com/chart/?symbol=ACIC) | American Coastal Insurance Corporation Common Stock | ACIC |
 | 19 | 89 | $12.87 | [Chart](https://www.tradingview.com/chart/?symbol=CCRN) | Cross Country Healthcare Inc | CCRN |
 | 20 | 88 | $87.50 | [Chart](https://www.tradingview.com/chart/?symbol=BCO) | The Brink's Company | BCO |
-| 29 | 86 | $11.90 | [Chart](https://www.tradingview.com/chart/?symbol=M) | Macy's Inc. | M |
-| 24 | 85 | $44.51 | [Chart](https://www.tradingview.com/chart/?symbol=EPI) | WisdomTree India Earnings Fund ETF | EPI |
-| 20 | 84 | $12.12 | [Chart](https://www.tradingview.com/chart/?symbol=WSR) | Whitestone REIT | WSR |
+| 23 | 88 | $44.54 | [Chart](https://www.tradingview.com/chart/?symbol=EPI) | WisdomTree India Earnings Fund ETF | EPI |
+| 15 | 87 | $41.80 | [Chart](https://www.tradingview.com/chart/?symbol=BILL) | BILL Holdings, Inc. | BILL |
+| 17 | 87 | $98.74 | [Chart](https://www.tradingview.com/chart/?symbol=AFL) | Aflac Inc. | AFL |
+| 24 | 86 | $13.12 | [Chart](https://www.tradingview.com/chart/?symbol=OCSL) | Oaktree Specialty Lending Corporation | OCSL |
+| 19 | 85 | $12.12 | [Chart](https://www.tradingview.com/chart/?symbol=WSR) | Whitestone REIT | WSR |
+| 18 | 84 | $59.86 | [Chart](https://www.tradingview.com/chart/?symbol=UL) | Unilever plc | UL |
 | 23 | 84 | $12.60 | [Chart](https://www.tradingview.com/chart/?symbol=ZYME) | Zymeworks Inc. | ZYME |
+| 25 | 84 | $95.27 | [Chart](https://www.tradingview.com/chart/?symbol=IRM) | Iron Mountain Inc. | IRM |
+| 26 | 84 | $36.50 | [Chart](https://www.tradingview.com/chart/?symbol=VNO) | Vornado Realty Trust | VNO |
+| 21 | 83 | $12.02 | [Chart](https://www.tradingview.com/chart/?symbol=NU) | Nu Holdings Ltd. | NU |
 | 27 | 83 | $40.60 | [Chart](https://www.tradingview.com/chart/?symbol=APOG) | Apogee Enterprises Inc | APOG |
-| 27 | 81 | $94.77 | [Chart](https://www.tradingview.com/chart/?symbol=IRM) | Iron Mountain Inc. | IRM |
-| 28 | 81 | $13.51 | [Chart](https://www.tradingview.com/chart/?symbol=OCSL) | Oaktree Specialty Lending Corporation | OCSL |
+| 35 | 82 | $11.95 | [Chart](https://www.tradingview.com/chart/?symbol=M) | Macy's Inc. | M |
+| 24 | 80 | $31.70 | [Chart](https://www.tradingview.com/chart/?symbol=DAR) | DARLING INGREDIENTS INC. | DAR |
 | 21 | 79 | $10.32 | [Chart](https://www.tradingview.com/chart/?symbol=BRKL) | Brookline Bancorp Inc | BRKL |
 | 27 | 77 | $56.30 | [Chart](https://www.tradingview.com/chart/?symbol=USRT) | iShares Core U.S. REIT ETF | USRT |
-| 31 | 74 | $59.91 | [Chart](https://www.tradingview.com/chart/?symbol=FTSM) | First Trust Enhanced Short Maturity ETF | FTSM |
+| 28 | 75 | $140.47 | [Chart](https://www.tradingview.com/chart/?symbol=DVA) | DaVita Inc. | DVA |
+| 30 | 75 | $59.91 | [Chart](https://www.tradingview.com/chart/?symbol=FTSM) | First Trust Enhanced Short Maturity ETF | FTSM |
+| 32 | 73 | $18.95 | [Chart](https://www.tradingview.com/chart/?symbol=KRNT) | Kornit Digital Ltd. | KRNT |
 | 30 | 72 | $23.30 | [Chart](https://www.tradingview.com/chart/?symbol=IBTF) | iShares iBonds Dec 2025 Term Treasury ETF | IBTF |
-| 33 | 72 | $18.95 | [Chart](https://www.tradingview.com/chart/?symbol=KRNT) | Kornit Digital Ltd. | KRNT |
-| 30 | 70 | $22.86 | [Chart](https://www.tradingview.com/chart/?symbol=IBTG) | iShares iBonds Dec 2026 Term Treasury ETF | IBTG |
+| 29 | 71 | $22.86 | [Chart](https://www.tradingview.com/chart/?symbol=IBTG) | iShares iBonds Dec 2026 Term Treasury ETF | IBTG |
 | 32 | 69 | $30.74 | [Chart](https://www.tradingview.com/chart/?symbol=FLRN) | SPDR Bloomberg Investment Grade Floating Rate ETF | FLRN |
+| 38 | 65 | $42.82 | [Chart](https://www.tradingview.com/chart/?symbol=SPYD) | SPDR Portfolio S&P 500 High Dividend ETF | SPYD |
 
 ## **Methodology**
 
